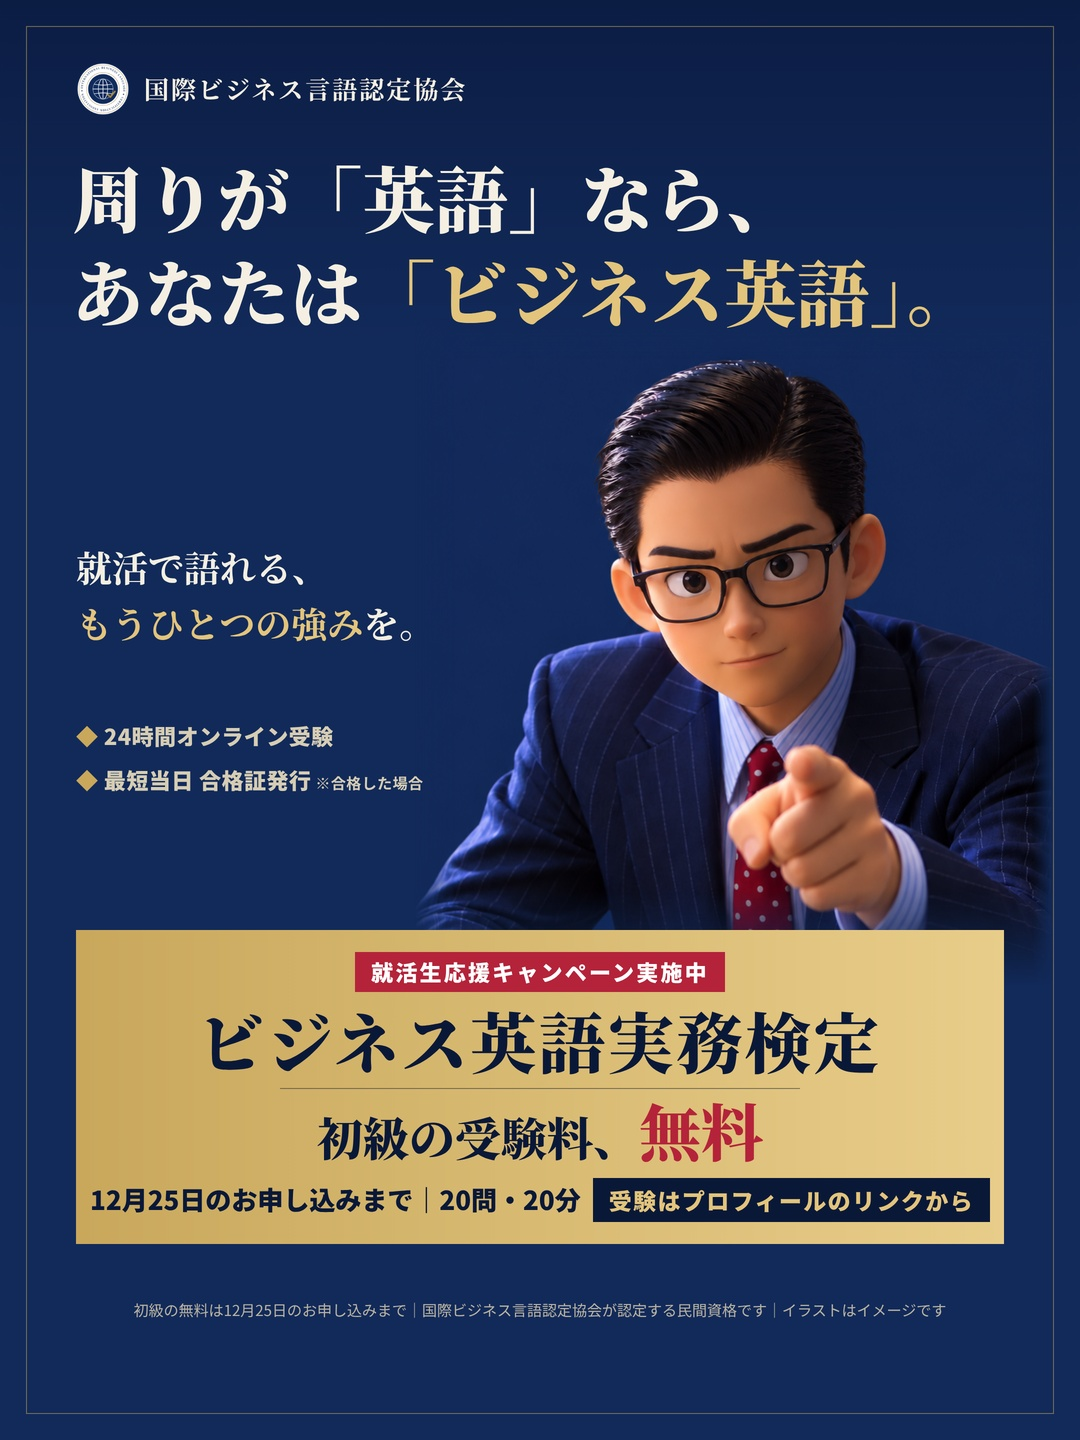
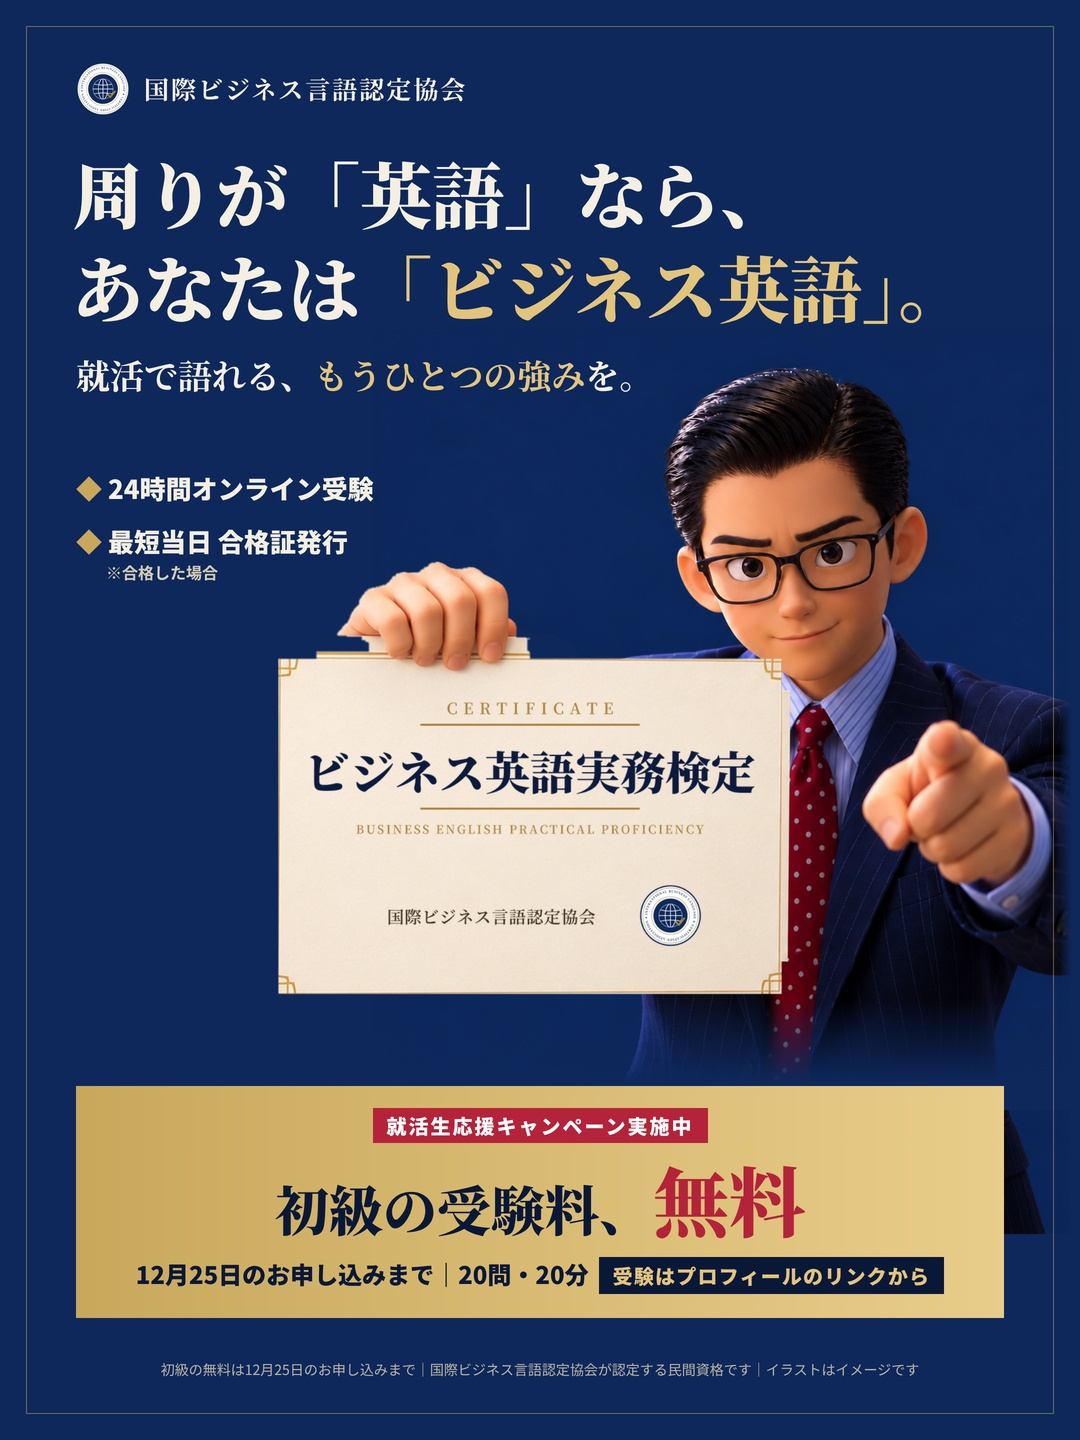
インスタ固定投稿用 v20：合格証と資格名を大きく（決定版）
Claude-Session: https://claude.ai/code/session_014p5jL2LKN9C3tYKst8GaL5

diff --git a/content/posters/ig_v20.html b/content/posters/ig_v20.html
@@ -1,0 +1,35 @@
+<!doctype html><html><head><meta charset="utf-8"><style>
+*{margin:0;padding:0;box-sizing:border-box}
+html,body{width:1080px;height:1440px;overflow:hidden}
+body{font-family:"Noto Sans CJK JP",sans-serif;color:#f4efe2;-webkit-font-smoothing:antialiased;background:#0e285c;position:relative}
+.frame{position:absolute;left:26px;top:26px;right:26px;bottom:26px;border:1.5px solid rgba(201,168,92,.5);z-index:5}
+.brand{position:absolute;left:76px;top:62px;display:flex;align-items:center;gap:14px;z-index:4}
+.brand img{width:54px;height:54px}
+.brand .n{font-family:"Noto Serif CJK JP",serif;font-weight:700;font-size:25px;letter-spacing:.08em}
+.head{position:absolute;z-index:4;left:72px;right:60px;top:146px;font-family:"Noto Serif CJK JP",serif;font-weight:900;font-size:72px;line-height:1.3}
+.head em{font-style:normal;color:#e3c47c}
+.sub{position:absolute;z-index:4;left:76px;top:350px;font-family:"Noto Serif CJK JP",serif;font-weight:700;font-size:34px}
+.sub em{font-style:normal;color:#e3c47c}
+.ken{position:absolute;left:204px;top:300px;width:868px;z-index:1}
+.fadeb{position:absolute;left:0;right:0;top:1000px;height:110px;background:linear-gradient(180deg,rgba(14,40,92,0),#0e285c 75%);z-index:2}
+.chips{position:absolute;z-index:4;left:76px;top:470px;display:flex;flex-direction:column;gap:16px;font-weight:900;font-size:26px;color:#f4efe2}.chips small{display:block;margin-left:30px!important;font-size:16px!important;color:#d6cdb4}
+.chips span:before{content:"◆ ";color:#c9a85c}.chips small{font-size:14px;font-weight:700;margin-left:4px}
+.cta{position:absolute;z-index:4;left:76px;right:76px;top:1086px;background:linear-gradient(90deg,#c9a85c,#e8cd8a);color:#0a1838;text-align:center;padding:22px 12px 24px}
+.cta .t{display:inline-block;background:#b4233a;color:#fff;font-weight:900;font-size:20px;letter-spacing:.1em;padding:3px 14px}
+.cta .nm{margin-top:4px;font-family:"Noto Serif CJK JP",serif;font-weight:900;font-size:52px;line-height:1.15;letter-spacing:.04em}
+.cta .nm:after{content:"";display:block;width:460px;height:1.5px;background:rgba(10,24,56,.45);margin:6px auto 2px}
+.cta .a{margin-top:10px;font-family:"Noto Serif CJK JP",serif;font-weight:900;font-size:54px;line-height:1.2}
+.cta .a b{font-size:76px;color:#b4233a}
+.cta .b{margin-top:12px;font-weight:900;font-size:24px}
+.cta .b span{display:inline-block;background:#0a1838;color:#e3c47c;padding:4px 14px;margin-left:10px;font-size:20px;letter-spacing:.06em}
+.note{position:absolute;z-index:4;left:0;right:0;top:1360px;text-align:center;font-size:14px;color:#b9b3a2}
+</style></head><body>
+<div class="frame"></div>
+<img class="ken" src="ken_cert3.png"><div class="fadeb"></div>
+<div class="brand"><img src="logo.png"><div class="n">国際ビジネス言語認定協会</div></div>
+<div class="head">周りが「英語」なら、<br>あなたは<em>「ビジネス英語」。</em></div>
+<div class="sub">就活で語れる、<em>もうひとつの強み</em>を。</div>
+<div class="chips"><span>24時間オンライン受験</span><span>最短当日 合格証発行<small>※合格した場合</small></span></div>
+<div class="cta"><div class="t">就活生応援キャンペーン実施中</div><div class="a">初級の受験料、<b>無料</b></div><div class="b">12月25日のお申し込みまで｜20問・20分<span>受験はプロフィールのリンクから</span></div></div>
+<div class="note">初級の無料は12月25日のお申し込みまで｜国際ビジネス言語認定協会が認定する民間資格です｜イラストはイメージです</div>
+</body></html>

diff --git a/log/posted.md b/log/posted.md
@@ -100,3 +100,4 @@
 - 2026-10-29 作成｜Instagram 固定投稿用 v18（決定版に差し替え）｜見出しを明朝に戻し、「仕事の場面に特化した英語力を測る資格」を外した｜未投稿（オーナーが自分で投稿）
 - 2026-10-29 作成｜キャラ素材｜assets/chara/ken_cert_text.png（ChatGPT で作ったケンが合格証風の紙を持って指さす絵に、協会マーク・CERTIFICATE・ビジネス英語実務検定・協会名を合成）
 - 2026-10-29 作成｜Instagram 固定投稿用 v19｜assets/images/IG_固定投稿_v19_合格証.jpg（横長の合格証に「ビジネス英語実務検定」を合成、ケンが見る人を指さす＋決定版の文言＋キャンペーン）｜未投稿（オーナーが自分で投稿）
+- 2026-10-29 作成｜Instagram 固定投稿用 v20（決定版に差し替え）｜合格証を約1.4倍に拡大し、「ビジネス英語実務検定」を大きく｜未投稿（オーナーが自分で投稿）
